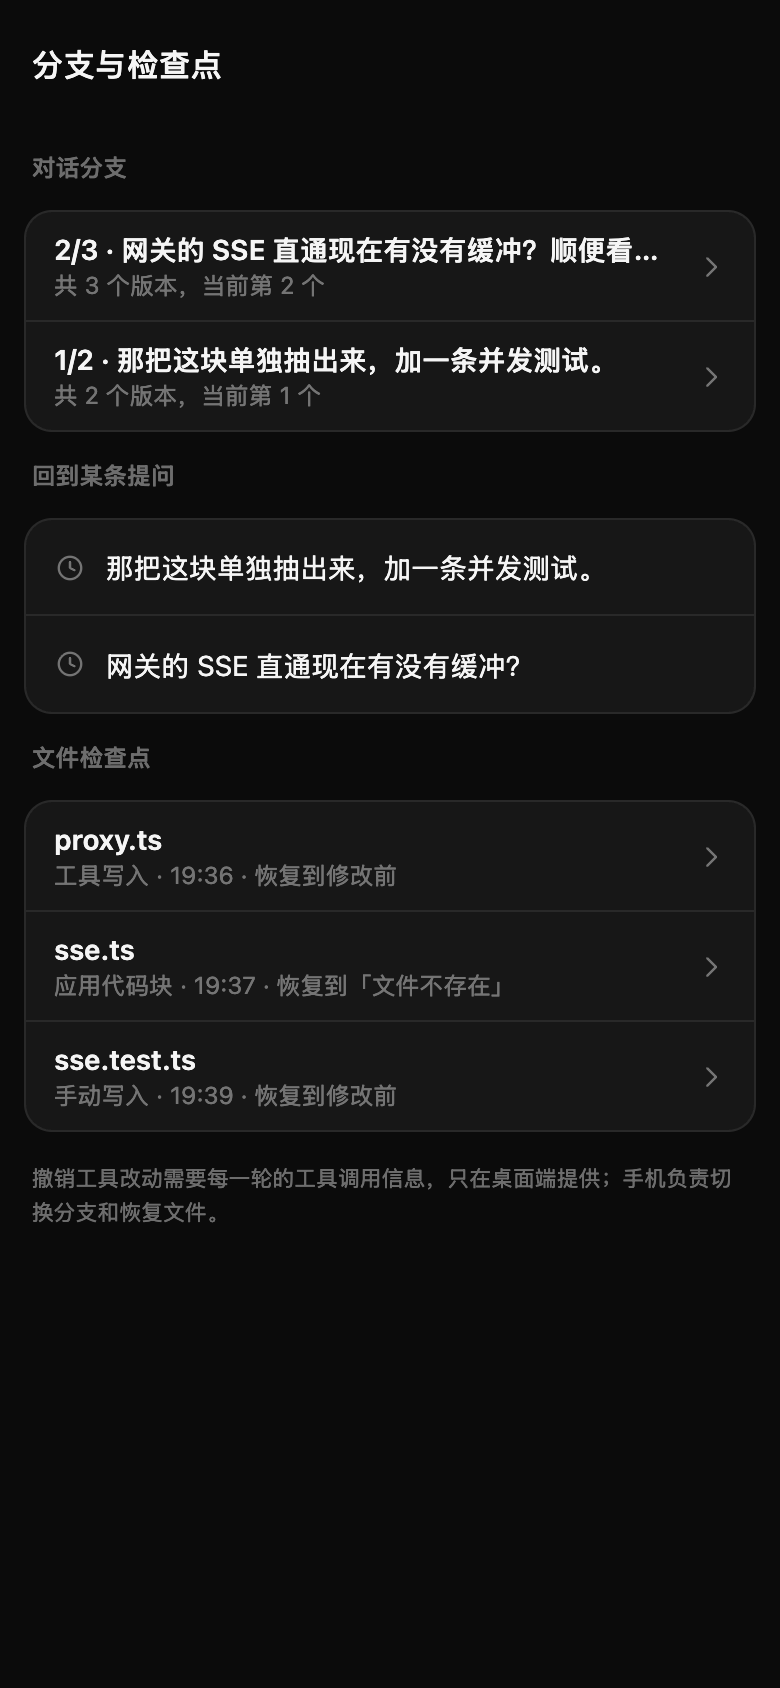
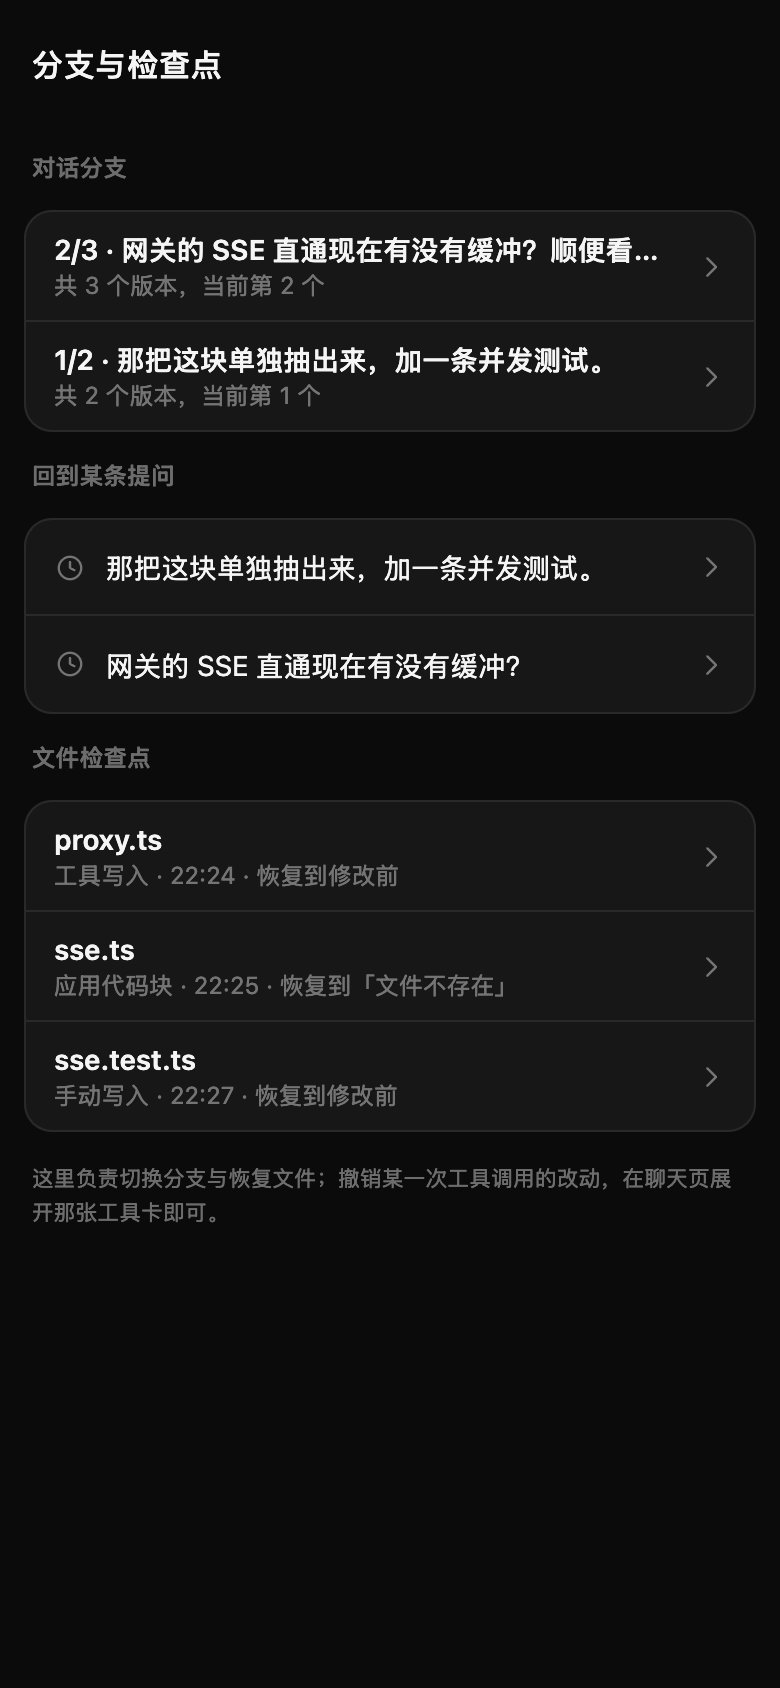
polish(mobile): 分支页回退行补右箭头，交互提示一致（v3 §9.17）

diff --git a/apps/mobile/app/branches/[sessionId].tsx b/apps/mobile/app/branches/[sessionId].tsx
@@ -253,7 +253,9 @@ export default function BranchesScreen() {
                   <Text numberOfLines={1} style={{ flex: 1, color: theme.text, fontSize: 14, paddingVertical: 12 }}>
                     {point.preview || `第 ${point.index + 1} 条提问`}
                   </Text>
-                  {busy === point.entryId ? <ActivityIndicator color={theme.textMedium} /> : null}
+                  {busy === point.entryId
+                    ? <ActivityIndicator color={theme.textMedium} />
+                    : <ChevronRightIcon size={15} color={theme.textWeak} />}
                 </Pressable>
               ))}
             </Card>

diff --git a/docs/plan/20261117-mobile.md b/docs/plan/20261117-mobile.md
@@ -609,12 +609,13 @@ gateway `bun test` **364/364**、`tsc` 与 iOS/web `expo export` 通过。
 |---|---|---|
 | 「我」头部副标题 | 与「连接 · 电脑」行重复显示同一网关地址 | 副标题改为「设备名 · 状态」，网关只在连接卡出现 |
 | 通知未读点位置 | 圆点紧跟分类文字，像标点 | 分类与圆点两端对齐，圆点固定在卡片右上角 |
+| 「回到某条提问」行 | 与上下两节不同，缺右侧箭头，看起来不可点 | 补 `ChevronRightIcon`（操作中换 spinner），三节交互一致 |
 | 32 屏浅/深两套 | 全部通过、0 页面错误 | — |
 
 **当前 v3：98/100**（A 25 + B 15 + C 20 + D 15 + E 14 + F 9）。
 第十七轮验证：手机端 **233** 单测、App E2E **114/114**、预览 UI **32/32**、
 `tsc` 与 iOS/web `expo export` 通过。
-更新截图 `mobile-me(_dark).png`、`mobile-notifications(_dark).png`。
+更新截图 `mobile-me(_dark).png`、`mobile-notifications(_dark).png`、`mobile-branches(_dark).png`。
 
 ---
 
